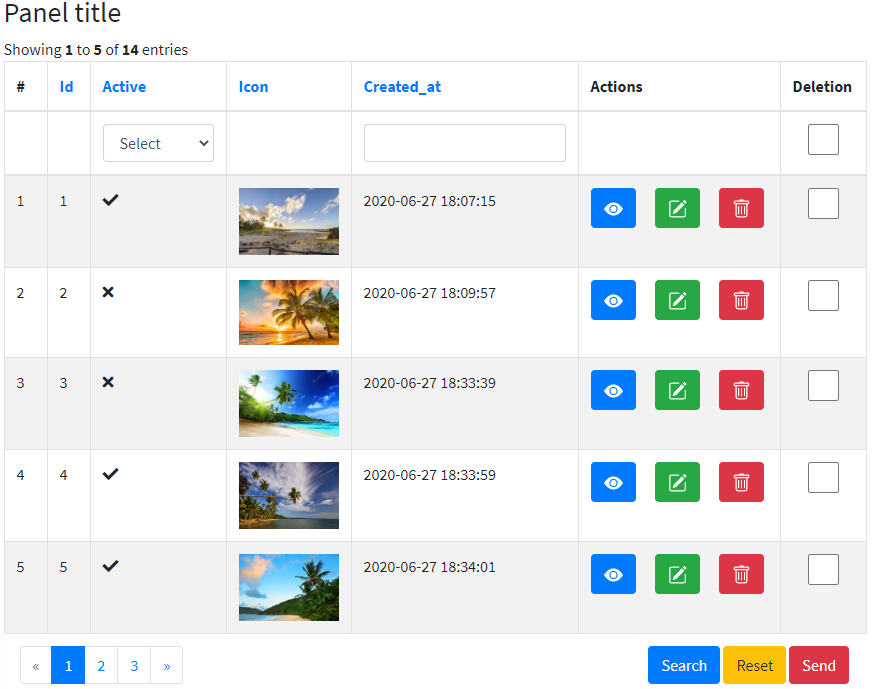
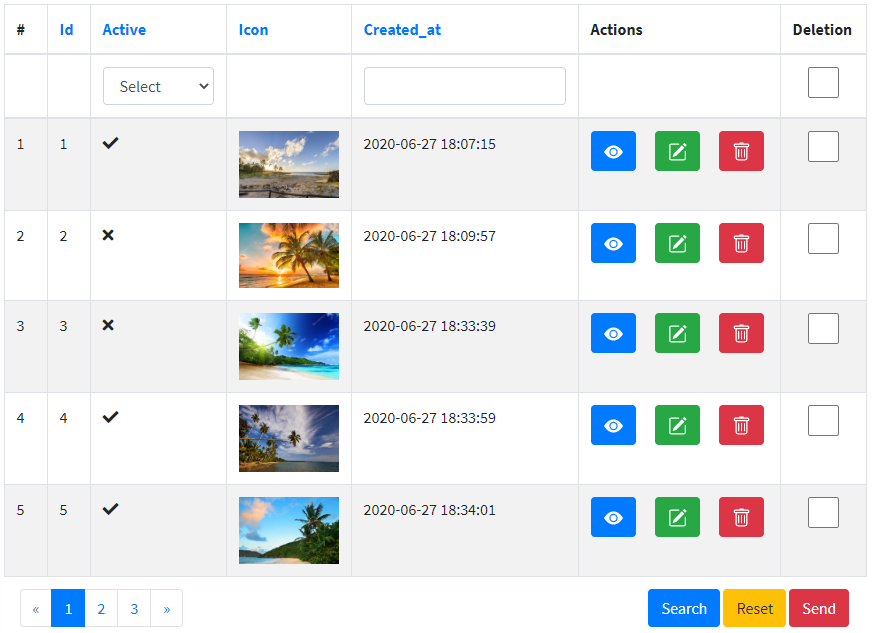
Container changes for .card bootstrap css style

diff --git a/resources/views/grid.blade.php b/resources/views/grid.blade.php
@@ -1,8 +1,8 @@
 @php
-/** @var \Itstructure\GridView\Columns\BaseColumn[] $columnObjects */
-/** @var \Illuminate\Pagination\LengthAwarePaginator $paginator */
-/** @var boolean $useFilters */
-$checkboxesExist = false;
+    /** @var \Itstructure\GridView\Columns\BaseColumn[] $columnObjects */
+    /** @var \Illuminate\Pagination\LengthAwarePaginator $paginator */
+    /** @var boolean $useFilters */
+    $checkboxesExist = false;
 @endphp
 <style>
     .table-bordered tfoot tr td {
@@ -10,121 +10,114 @@ $checkboxesExist = false;
     }
 </style>
 <div class="card">
+    <div class="card-header">
+        @if($title)
+            <h2 class="card-title">{!! $title !!}</h2>
+        @endif
+        <div class="float-right">
+            @if ($paginator->onFirstPage())
+                {!! trans('grid_view::grid.page-info', [
+                    'start' => '<b>1</b>',
+                    'end' => '<b>' . $paginator->perPage() . '</b>',
+                    'total' => '<b>' . $paginator->total() . '</b>',
+                ]) !!}
+            @elseif ($paginator->currentPage() == $paginator->lastPage())
+                {!! trans('grid_view::grid.page-info', [
+                    'start' => '<b>' . (($paginator->currentPage() - 1) * $paginator->perPage() + 1) . '</b>',
+                    'end' => '<b>' . $paginator->total() . '</b>',
+                    'total' => '<b>' . $paginator->total() . '</b>',
+                ]) !!}
+            @else
+                {!! trans('grid_view::grid.page-info', [
+                    'start' => '<b>' . (($paginator->currentPage() - 1) * $paginator->perPage() + 1) . '</b>',
+                    'end' => '<b>' . (($paginator->currentPage()) * $paginator->perPage()) . '</b>',
+                    'total' => '<b>' . $paginator->total() . '</b>',
+                ]) !!}
+            @endif
+        </div>
+    </div>
     <div class="card-body">
-        <div class="panel panel-primary">
-            <div class="panel-heading">
-                @if($title)
-                    <h3 class="panel-title">{!! $title !!}</h3>
-                @endif
-                <div class="pull-right">
-                    <div class="summary">
-                        @if ($paginator->onFirstPage())
-                            {!! trans('grid_view::grid.page-info', [
-                                'start' => '<b>1</b>',
-                                'end' => '<b>' . $paginator->perPage() . '</b>',
-                                'total' => '<b>' . $paginator->total() . '</b>',
-                            ]) !!}
-                        @elseif ($paginator->currentPage() == $paginator->lastPage())
-                            {!! trans('grid_view::grid.page-info', [
-                                'start' => '<b>' . (($paginator->currentPage() - 1) * $paginator->perPage() + 1) . '</b>',
-                                'end' => '<b>' . $paginator->total() . '</b>',
-                                'total' => '<b>' . $paginator->total() . '</b>',
-                            ]) !!}
-                        @else
-                            {!! trans('grid_view::grid.page-info', [
-                                'start' => '<b>' . (($paginator->currentPage() - 1) * $paginator->perPage() + 1) . '</b>',
-                                'end' => '<b>' . (($paginator->currentPage()) * $paginator->perPage()) . '</b>',
-                                'total' => '<b>' . $paginator->total() . '</b>',
-                            ]) !!}
-                        @endif
-                    </div>
-                </div>
-            </div>
-            <div class="table-responsive">
-                <table class="table table-bordered table-striped table-hover">
-                    <thead>
-                        <tr>
-                            <th width="5%">#</th>
+        <table class="table table-bordered table-striped table-hover">
+            <thead>
+                <tr>
+                    <th width="5%">#</th>
+                    @foreach($columnObjects as $column_obj)
+                        <th {!! $column_obj->buildHtmlAttributes() !!}>
+
+                            @if($column_obj->getSort() === false || $column_obj instanceof \Itstructure\GridView\Columns\ActionColumn)
+                                {{ $column_obj->getLabel() }}
+
+                            @elseif($column_obj instanceof \Itstructure\GridView\Columns\CheckboxColumn)
+                                @php($checkboxesExist = true)
+                                @if($useFilters)
+                                    {{ $column_obj->getLabel() }}
+                                @else
+                                    <input type="checkbox" id="grid_view_checkbox_main" class="form-control form-control-sm" @if($paginator->count() == 0) disabled="disabled" @endif />
+                                @endif
+
+                            @else
+                                <a href="{{ \Itstructure\GridView\Helpers\SortHelper::getSortableLink(request(), $column_obj) }}">{{ $column_obj->getLabel() }}</a>
+                            @endif
+
+                        </th>
+                    @endforeach
+                </tr>
+                @if ($useFilters)
+                    <tr>
+                        <form action="" method="get" id="grid_view_filters_form">
+                            <td></td>
                             @foreach($columnObjects as $column_obj)
-                                <th {!! $column_obj->buildHtmlAttributes() !!}>
-
-                                    @if($column_obj->getSort() === false || $column_obj instanceof \Itstructure\GridView\Columns\ActionColumn)
-                                        {{ $column_obj->getLabel() }}
-
-                                    @elseif($column_obj instanceof \Itstructure\GridView\Columns\CheckboxColumn)
-                                        @php($checkboxesExist = true)
-                                        @if($useFilters)
-                                            {{ $column_obj->getLabel() }}
-                                        @else
-                                            <input type="checkbox" id="grid_view_checkbox_main" class="form-control form-control-sm" @if($paginator->count() == 0) disabled="disabled" @endif />
-                                        @endif
-
+                                <td>
+                                    @if($column_obj instanceof \Itstructure\GridView\Columns\CheckboxColumn)
+                                        <input type="checkbox" id="grid_view_checkbox_main" class="form-control form-control-sm" @if($paginator->count() == 0) disabled="disabled" @endif />
                                     @else
-                                        <a href="{{ \Itstructure\GridView\Helpers\SortHelper::getSortableLink(request(), $column_obj) }}">{{ $column_obj->getLabel() }}</a>
+                                        {!! $column_obj->getFilter()->render() !!}
                                     @endif
+                                </td>
+                            @endforeach
+                            <input type="submit" class="d-none">
+                        </form>
+                    </tr>
+                @endif
+            </thead>
 
-                                </th>
+            <form action="{{ $rowsFormAction }}" method="post" id="grid_view_rows_form">
+                <tbody>
+                    @foreach($paginator->items() as $key => $row)
+                        <tr>
+                            <td>{{ ($paginator->currentPage() - 1) * $paginator->perPage() + $key + 1 }}</td>
+                            @foreach($columnObjects as $column_obj)
+                                <td>{!! $column_obj->render($row) !!}</td>
                             @endforeach
                         </tr>
-                        @if ($useFilters)
-                            <tr>
-                                <form action="" method="get" id="grid_view_filters_form">
-                                    <td></td>
-                                    @foreach($columnObjects as $column_obj)
-                                        <td>
-                                            @if($column_obj instanceof \Itstructure\GridView\Columns\CheckboxColumn)
-                                                <input type="checkbox" id="grid_view_checkbox_main" class="form-control form-control-sm" @if($paginator->count() == 0) disabled="disabled" @endif />
-                                            @else
-                                                {!! $column_obj->getFilter()->render() !!}
-                                            @endif
-                                        </td>
-                                    @endforeach
-                                    <input type="submit" class="d-none">
-                                </form>
-                            </tr>
-                        @endif
-                    </thead>
+                    @endforeach
+                </tbody>
 
-                    <form action="{{ $rowsFormAction }}" method="post" id="grid_view_rows_form">
-                        <tbody>
-                            @foreach($paginator->items() as $key => $row)
-                                <tr>
-                                    <td>{{ ($paginator->currentPage() - 1) * $paginator->perPage() + $key + 1 }}</td>
-                                    @foreach($columnObjects as $column_obj)
-                                        <td>{!! $column_obj->render($row) !!}</td>
-                                    @endforeach
-                                </tr>
-                            @endforeach
-                        </tbody>
-
-                        <tfoot>
-                            <tr>
-                                <td colspan="{{ count($columnObjects) + 1 }}">
-                                    <div class="mx-1">
-                                        <div class="row">
-                                            <div class="col-12 col-xl-8 text-center text-xl-left">
-                                                {{ $paginator->render('grid_view::pagination') }}
-                                            </div>
-                                            <div class="col-12 col-xl-4 text-center text-xl-right">
-                                                @if ($useFilters)
-                                                    <button id="grid_view_search_button" type="button" class="btn btn-primary">{{ $searchButtonLabel }}</button>
-                                                    <button id="grid_view_reset_button" type="button" class="btn btn-warning">{{ $resetButtonLabel }}</button>
-                                                @endif
-                                                @if (($checkboxesExist || $useSendButtonAnyway) && $paginator->count() > 0)
-                                                    <button type="submit" class="btn btn-danger">{{ $sendButtonLabel }}</button>
-                                                @endif
-                                            </div>
-                                        </div>
+                <tfoot>
+                    <tr>
+                        <td colspan="{{ count($columnObjects) + 1 }}">
+                            <div class="mx-1">
+                                <div class="row">
+                                    <div class="col-12 col-xl-8 text-center text-xl-left">
+                                        {{ $paginator->render('grid_view::pagination') }}
                                     </div>
-                                </td>
-                            </tr>
-                        </tfoot>
-                        <input type="hidden" value="{!! csrf_token() !!}" name="_token">
-                    </form>
-
-                </table>
-            </div>
-        </div>
+                                    <div class="col-12 col-xl-4 text-center text-xl-right">
+                                        @if ($useFilters)
+                                            <button id="grid_view_search_button" type="button" class="btn btn-primary">{{ $searchButtonLabel }}</button>
+                                            <button id="grid_view_reset_button" type="button" class="btn btn-warning">{{ $resetButtonLabel }}</button>
+                                        @endif
+                                        @if (($checkboxesExist || $useSendButtonAnyway) && $paginator->count() > 0)
+                                            <button type="submit" class="btn btn-danger">{{ $sendButtonLabel }}</button>
+                                        @endif
+                                    </div>
+                                </div>
+                            </div>
+                        </td>
+                    </tr>
+                </tfoot>
+                <input type="hidden" value="{!! csrf_token() !!}" name="_token">
+            </form>
+        </table>
     </div>
 </div>
 <script type="text/javascript">

diff --git a/src/Grid.php b/src/Grid.php
@@ -145,7 +145,7 @@ class Grid
             'useSendButtonAnyway' => $this->useSendButtonAnyway,
             'searchButtonLabel' => $this->getSearchButtonLabel(),
             'resetButtonLabel' => $this->getResetButtonLabel(),
-            'sendButtonLabel' => $this->getSendButtonLabel(),
+            'sendButtonLabel' => $this->getSendButtonLabel()
         ])->render();
     }
 

diff --git a/README.md b/README.md
@@ -26,7 +26,7 @@ This package is to displaying the model data in a Grid table.
 
 Run the composer command:
 
-`composer require itstructure/laravel-grid-view "~1.0.2"`
+`composer require itstructure/laravel-grid-view "~1.0.3"`
 
 ### If you are testing this package from a local server directory
 

diff --git a/changelog.md b/changelog.md
@@ -1,5 +1,8 @@
 ### CHANGE LOG:
 
+**1.0.3 July 10, 2020:**
+- Container changes for `.card` bootstrap css style.
+
 **1.0.2 July 09, 2020:**
 - Ability to set filter's `name` by custom.
 - Add `sort` attribute and `getSort()` method to `BaseColumn`. Modify depended blocks.
